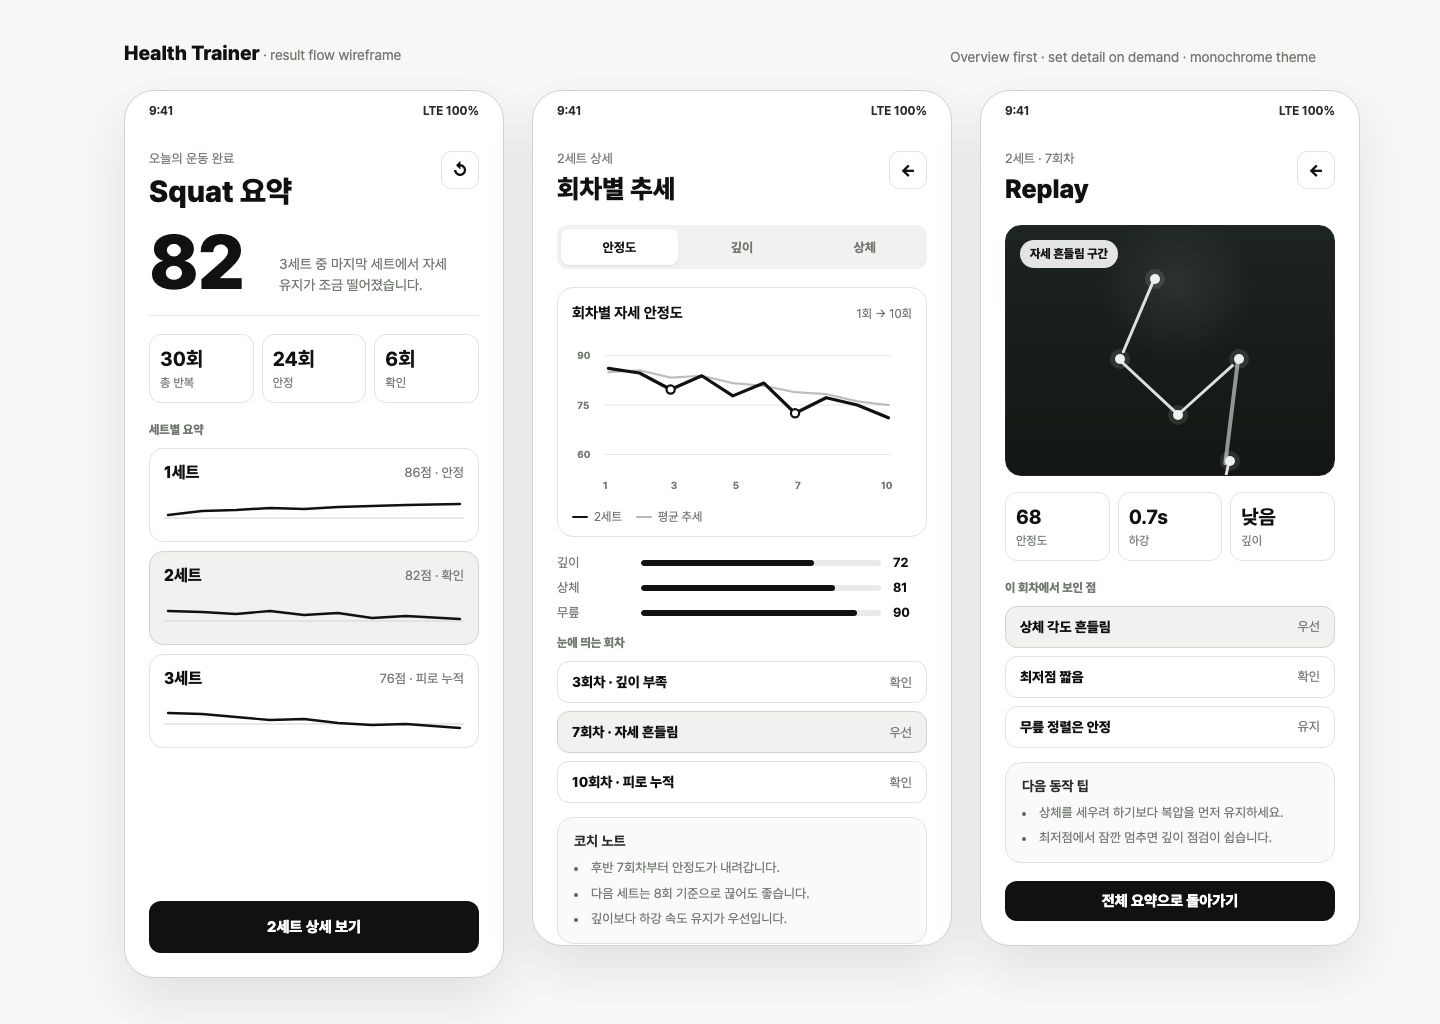
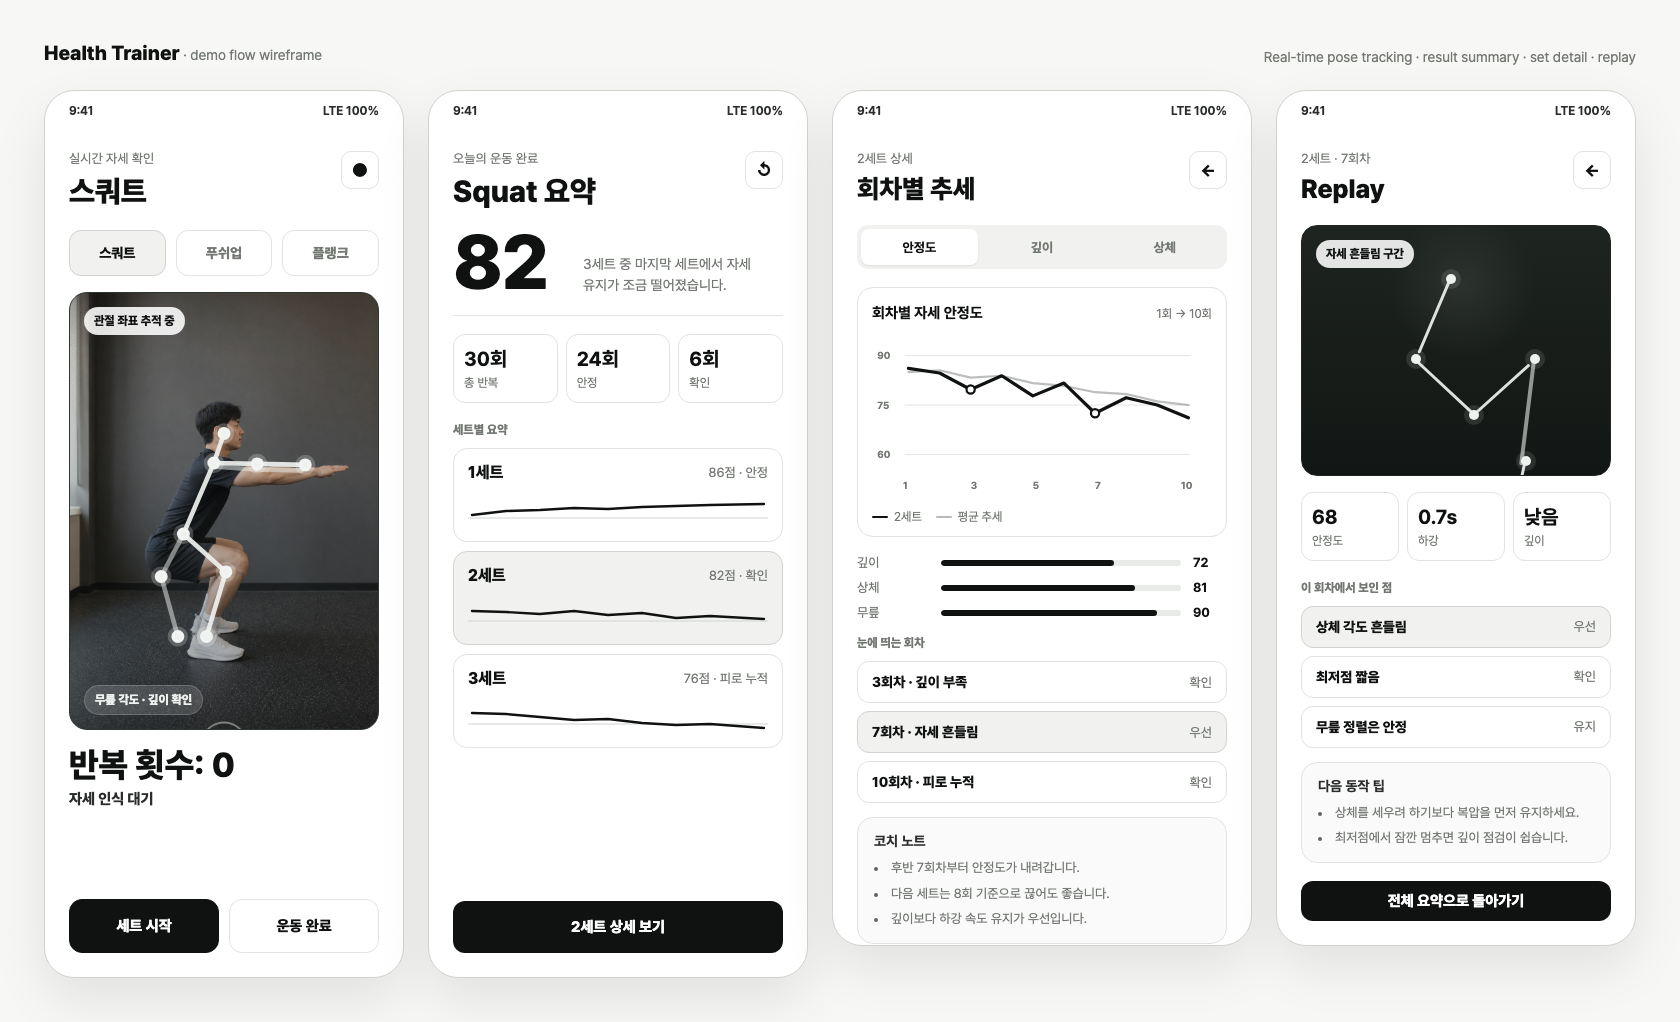
docs: show live squat tracking wireframe

diff --git a/docs/wireframes/health-trainer-wireframe.html b/docs/wireframes/health-trainer-wireframe.html
@@ -3,7 +3,7 @@
 <head>
   <meta charset="utf-8" />
   <meta name="viewport" content="width=device-width, initial-scale=1" />
-  <title>Health Trainer Result Flow</title>
+  <title>Health Trainer Demo Flow</title>
   <style>
     :root {
       --bg: #f7f7f5;
@@ -35,8 +35,8 @@
     }
 
     .canvas {
-      width: min(1280px, 100vw);
-      min-height: 980px;
+      width: min(1680px, 100vw);
+      min-height: 1010px;
       margin: 0 auto;
       padding: 40px 44px 44px;
     }
@@ -59,8 +59,8 @@
 
     .frames {
       display: grid;
-      grid-template-columns: 380px 420px 380px;
-      gap: 28px;
+      grid-template-columns: 360px 380px 420px 360px;
+      gap: 24px;
       align-items: start;
     }
 
@@ -74,6 +74,10 @@
     }
 
     .phone.detail {
+      height: 888px;
+    }
+
+    .phone.live {
       height: 888px;
     }
 
@@ -293,6 +297,32 @@
       box-shadow: 0 1px 2px rgba(16, 18, 17, .08);
     }
 
+    .exercise-tabs {
+      display: grid;
+      grid-template-columns: repeat(3, 1fr);
+      gap: 10px;
+      margin-bottom: 16px;
+    }
+
+    .exercise-tab {
+      height: 46px;
+      border: 1px solid var(--line);
+      border-radius: 12px;
+      display: grid;
+      place-items: center;
+      color: var(--muted);
+      background: #fff;
+      font-size: 14px;
+      font-weight: 760;
+      white-space: nowrap;
+    }
+
+    .exercise-tab.active {
+      color: var(--ink);
+      background: var(--soft);
+      border-color: var(--line-strong);
+    }
+
     .chart-card {
       border: 1px solid var(--line);
       border-radius: 16px;
@@ -486,6 +516,16 @@
       border: 1px solid #202520;
     }
 
+    .camera.live-camera {
+      height: 438px;
+      border-radius: 18px;
+      margin-bottom: 18px;
+      background:
+        linear-gradient(180deg, rgba(18, 22, 20, .08), rgba(18, 22, 20, .34)),
+        url("assets/squat-camera-preview.png") center center / cover;
+      border-color: #2f3530;
+    }
+
     .tracking {
       position: absolute;
       top: 14px;
@@ -497,6 +537,84 @@
       font-size: 12px;
       font-weight: 720;
       white-space: nowrap;
+    }
+
+    .tracking.secondary {
+      top: auto;
+      bottom: 14px;
+      left: 14px;
+      background: rgba(255, 255, 255, .14);
+      color: #eef1ee;
+      border: 1px solid rgba(255, 255, 255, .18);
+    }
+
+    .live-pose {
+      position: absolute;
+      inset: 42px 34px 42px;
+      width: calc(100% - 68px);
+      height: calc(100% - 84px);
+      overflow: visible;
+    }
+
+    .live-pose .bone {
+      stroke: #eef1ee;
+      stroke-width: 5;
+      stroke-linecap: round;
+      opacity: .92;
+    }
+
+    .live-pose .bone.warn {
+      opacity: .5;
+    }
+
+    .live-pose .joint-dot {
+      fill: #eef1ee;
+      stroke: rgba(255,255,255,.22);
+      stroke-width: 8;
+    }
+
+    .live-stats {
+      margin-bottom: 18px;
+    }
+
+    .live-reps {
+      margin: 0 0 8px;
+      font-size: 34px;
+      line-height: 1;
+      font-weight: 820;
+    }
+
+    .live-state {
+      margin: 0;
+      color: var(--ink-2);
+      font-size: 15px;
+      font-weight: 720;
+    }
+
+    .actions {
+      margin-top: auto;
+      display: grid;
+      grid-template-columns: 1fr 1fr;
+      gap: 10px;
+    }
+
+    .action {
+      height: 54px;
+      border-radius: 13px;
+      border: 1px solid var(--line);
+      display: grid;
+      place-items: center;
+      background: #fff;
+      color: var(--ink);
+      font-size: 15px;
+      font-weight: 780;
+      white-space: nowrap;
+    }
+
+    .action.primary {
+      background: var(--ink);
+      color: #fff;
+      border-color: var(--ink);
     }
 
     .pose-line {
@@ -539,11 +657,66 @@
 <body>
   <main class="canvas">
     <div class="mast">
-      <div><span class="brand">Health Trainer</span> · result flow wireframe</div>
-      <div>Overview first · set detail on demand · monochrome theme</div>
+      <div><span class="brand">Health Trainer</span> · demo flow wireframe</div>
+      <div>Real-time pose tracking · result summary · set detail · replay</div>
     </div>
 
     <section class="frames">
+      <article class="phone live">
+        <div class="status"><span>9:41</span><span>LTE 100%</span></div>
+        <div class="screen">
+          <header class="top">
+            <div>
+              <p class="eyebrow">실시간 자세 확인</p>
+              <h1>스쿼트</h1>
+            </div>
+            <div class="ghost">●</div>
+          </header>
+
+          <nav class="exercise-tabs" aria-label="운동 선택">
+            <div class="exercise-tab active">스쿼트</div>
+            <div class="exercise-tab">푸쉬업</div>
+            <div class="exercise-tab">플랭크</div>
+          </nav>
+
+          <div class="camera live-camera">
+            <div class="tracking">관절 좌표 추적 중</div>
+            <svg class="live-pose" viewBox="0 0 260 360" aria-hidden="true">
+              <line class="bone" x1="130" y1="96" x2="119" y2="128" />
+              <line class="bone" x1="119" y1="128" x2="86" y2="205" />
+              <line class="bone" x1="86" y1="205" x2="132" y2="246" />
+              <line class="bone" x1="132" y1="246" x2="111" y2="316" />
+              <line class="bone warn" x1="86" y1="205" x2="62" y2="251" />
+              <line class="bone warn" x1="62" y1="251" x2="80" y2="316" />
+              <line class="bone" x1="119" y1="128" x2="166" y2="129" />
+              <line class="bone" x1="166" y1="129" x2="218" y2="130" />
+              <line class="bone warn" x1="122" y1="132" x2="165" y2="135" />
+              <line class="bone warn" x1="165" y1="135" x2="214" y2="136" />
+              <circle class="joint-dot" cx="130" cy="96" r="7" />
+              <circle class="joint-dot" cx="119" cy="128" r="7" />
+              <circle class="joint-dot" cx="86" cy="205" r="7" />
+              <circle class="joint-dot" cx="132" cy="246" r="7" />
+              <circle class="joint-dot" cx="111" cy="316" r="7" />
+              <circle class="joint-dot" cx="62" cy="251" r="7" />
+              <circle class="joint-dot" cx="80" cy="316" r="7" />
+              <circle class="joint-dot" cx="166" cy="129" r="7" />
+              <circle class="joint-dot" cx="218" cy="130" r="7" />
+            </svg>
+            <div class="tracking secondary">무릎 각도 · 깊이 확인</div>
+          </div>
+
+          <section class="live-stats">
+            <p class="live-reps">반복 횟수: 0</p>
+            <p class="live-state">자세 인식 대기</p>
+          </section>
+
+          <div class="actions">
+            <div class="action primary">세트 시작</div>
+            <div class="action">운동 완료</div>
+          </div>
+        </div>
+      </article>
+
       <article class="phone detail">
         <div class="status"><span>9:41</span><span>LTE 100%</span></div>
         <div class="screen">

diff --git a/README.md b/README.md
@@ -1,8 +1,8 @@
 # Health Trainer
 
-![Health Trainer result flow wireframe](docs/wireframes/health-trainer-wireframe.png)
+![Health Trainer demo flow wireframe](docs/wireframes/health-trainer-wireframe.png)
 
-> 운동 후 전체 세트 요약, 세트별 추세 그래프, 문제 회차 리플레이로 이어지는 결과 화면 와이어프레임입니다.
+> 실제 사람이 스쿼트를 하는 카메라 화면에서 관절 좌표를 실시간으로 추정하고, 운동 후 전체 세트 요약, 세트별 추세 그래프, 문제 회차 리플레이로 이어지는 데모 와이어프레임입니다.
 
 Health Trainer는 스마트폰 카메라로 운동 자세를 분석하는 Android 앱입니다. 스쿼트, 푸쉬업, 플랭크를 할 때 사람의 관절 좌표를 실시간으로 추정하고, 그 자세가 기준에 얼마나 맞는지 확인합니다.
 
@@ -457,8 +457,8 @@ cv: group k-fold 평균과 표준편차
 ## 데모 흐름
 
 1. 앱에서 스쿼트를 선택합니다.
-2. 측면 카메라 구도로 정상 스쿼트 1회, 얕은 스쿼트 1회, 정상 스쿼트 1회를 수행합니다.
-3. 화면에서 skeleton overlay와 rep count를 확인합니다.
+2. 측면 카메라 구도로 실제 사람이 스쿼트하는 모습을 보며 skeleton overlay와 rep count를 확인합니다.
+3. 정상 스쿼트 1회, 얕은 스쿼트 1회, 정상 스쿼트 1회를 수행합니다.
 4. 세트 종료 후 `1세트 2회차: 스쿼트 깊이 부족` 기록을 확인합니다.
 5. skeleton replay로 실패 구간을 다시 확인합니다.
 6. 푸쉬업과 플랭크도 같은 구조로 자세를 분석할 수 있음을 보여줍니다.
